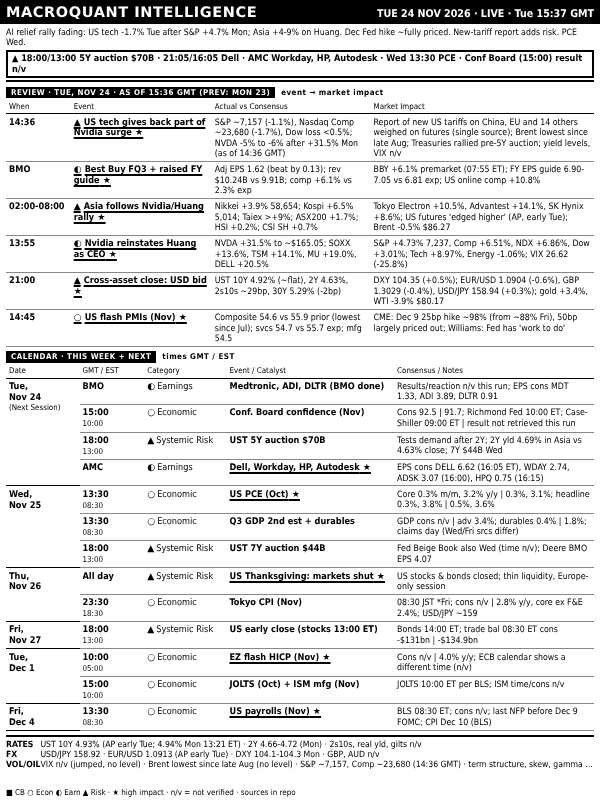
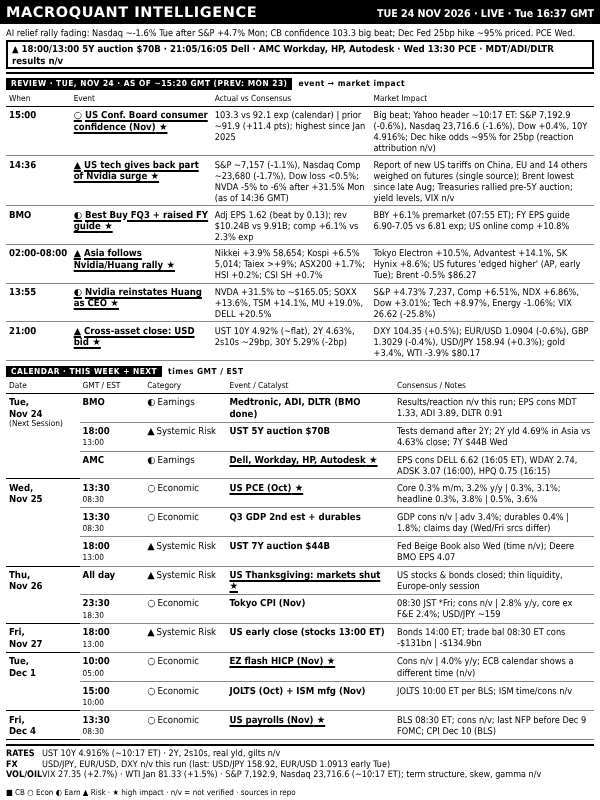
dashboard: TUE 24 NOV 2026 LIVE 16:40
Claude-Session: https://claude.ai/code/session_016SJqa5oHvQJZ3qpUeK4dBq

diff --git a/out/dashboard.html b/out/dashboard.html
@@ -38,12 +38,12 @@ table.bd{border-collapse:collapse;width:100%;table-layout:fixed;margin-top:1px}
 </style></head><body>
 <div id="root">
  <div class="hdr"><span class="t">MACROQUANT INTELLIGENCE</span>
-  <span class="r">TUE 24 NOV 2026 · LIVE · Tue 15:37 GMT</span></div>
- <div class="ban"><div class="rg">AI relief rally fading: US tech -1.7% Tue after S&amp;P +4.7% Mon; Asia +4-9% on Huang. Dec Fed hike ~fully priced. New-tariff report adds risk. PCE Wed.</div><div class="al">▲ 18:00/13:00 5Y auction $70B · 21:05/16:05 Dell · AMC Workday, HP, Autodesk · Wed 13:30 PCE · Conf Board (15:00) result n/v</div></div>
- <div class="sl"><span>REVIEW · TUE, NOV 24 · AS OF 15:36 GMT (PREV: MON 23)</span>event → market impact</div><table class="bd rv"><colgroup><col style="width:11%"><col style="width:24%"><col style="width:27%"><col></colgroup><tr><th>When</th><th>Event</th><th>Actual vs Consensus</th><th>Market Impact</th></tr><tr class="h"><td class="tm"><b>14:36</b></td><td class="ev"><i>▲</i>US tech gives back part of Nvidia surge</td><td class="ac">S&amp;P ~7,157 (-1.1%), Nasdaq Comp ~23,680 (-1.7%), Dow loss &lt;0.5%; NVDA -5% to -6% after +31.5% Mon (as of 14:36 GMT)</td><td class="nt">Report of new US tariffs on China, EU and 14 others weighed on futures (single source); Brent lowest since late Aug; Treasuries rallied pre-5Y auction; yield levels, VIX n/v</td></tr><tr class="h"><td class="tm"><b>BMO</b></td><td class="ev"><i>◐</i>Best Buy FQ3 + raised FY guide</td><td class="ac">Adj EPS 1.62 (beat by 0.13); rev $10.24B vs 9.91B; comp +6.1% vs 2.3% exp</td><td class="nt">BBY +6.1% premarket (07:55 ET); FY EPS guide 6.90-7.05 vs 6.81 exp; US online comp +10.8%</td></tr><tr class="h"><td class="tm"><b>02:00-08:00</b></td><td class="ev"><i>▲</i>Asia follows Nvidia/Huang rally</td><td class="ac">Nikkei +3.9% 58,654; Kospi +6.5% 5,014; Taiex &gt;+9%; ASX200 +1.7%; HSI +0.2%; CSI SH +0.7%</td><td class="nt">Tokyo Electron +10.5%, Advantest +14.1%, SK Hynix +8.6%; US futures 'edged higher' (AP, early Tue); Brent -0.5% $86.27</td></tr><tr class="h"><td class="tm"><b>13:55</b></td><td class="ev"><i>◐</i>Nvidia reinstates Huang as CEO</td><td class="ac">NVDA +31.5% to ~$165.05; SOXX +13.6%, TSM +14.1%, MU +19.0%, DELL +20.5%</td><td class="nt">S&amp;P +4.73% 7,237, Comp +6.51%, NDX +6.86%, Dow +3.01%; Tech +8.97%, Energy -1.06%; VIX 26.62 (-25.8%)</td></tr><tr class="h"><td class="tm"><b>21:00</b></td><td class="ev"><i>▲</i>Cross-asset close: USD bid</td><td class="ac">UST 10Y 4.92% (~flat), 2Y 4.63%, 2s10s ~29bp, 30Y 5.29% (-2bp)</td><td class="nt">DXY 104.35 (+0.5%); EUR/USD 1.0904 (-0.6%), GBP 1.3029 (-0.4%), USD/JPY 158.94 (+0.3%); gold +3.4%, WTI -3.9% $80.17</td></tr><tr class="h"><td class="tm"><b>14:45</b></td><td class="ev"><i>○</i>US flash PMIs (Nov)</td><td class="ac">Composite 54.6 vs 55.9 prior (lowest since Jul); svcs 54.7 vs 55.7 exp; mfg 54.5</td><td class="nt">CME: Dec 9 25bp hike ~98% (from ~88% Fri), 50bp largely priced out; Williams: Fed has 'work to do'</td></tr></table>
+  <span class="r">TUE 24 NOV 2026 · LIVE · Tue 16:37 GMT</span></div>
+ <div class="ban"><div class="rg">AI relief rally fading: Nasdaq ~-1.6% Tue after S&amp;P +4.7% Mon; CB confidence 103.3 big beat; Dec Fed 25bp hike ~95% priced. PCE Wed.</div><div class="al">▲ 18:00/13:00 5Y auction $70B · 21:05/16:05 Dell · AMC Workday, HP, Autodesk · Wed 13:30 PCE · MDT/ADI/DLTR results n/v</div></div>
+ <div class="sl"><span>REVIEW · TUE, NOV 24 · AS OF ~15:20 GMT (PREV: MON 23)</span>event → market impact</div><table class="bd rv"><colgroup><col style="width:11%"><col style="width:24%"><col style="width:27%"><col></colgroup><tr><th>When</th><th>Event</th><th>Actual vs Consensus</th><th>Market Impact</th></tr><tr class="h"><td class="tm"><b>15:00</b></td><td class="ev"><i>○</i>US Conf. Board consumer confidence (Nov)</td><td class="ac">103.3 vs 92.1 exp (calendar) | prior ~91.9 (+11.4 pts); highest since Jan 2025</td><td class="nt">Big beat; Yahoo header ~10:17 ET: S&amp;P 7,192.9 (-0.6%), Nasdaq 23,716.6 (-1.6%), Dow +0.4%, 10Y 4.916%; Dec hike odds ~95% for 25bp (reaction attribution n/v)</td></tr><tr class="h"><td class="tm"><b>14:36</b></td><td class="ev"><i>▲</i>US tech gives back part of Nvidia surge</td><td class="ac">S&amp;P ~7,157 (-1.1%), Nasdaq Comp ~23,680 (-1.7%), Dow loss &lt;0.5%; NVDA -5% to -6% after +31.5% Mon (as of 14:36 GMT)</td><td class="nt">Report of new US tariffs on China, EU and 14 others weighed on futures (single source); Brent lowest since late Aug; Treasuries rallied pre-5Y auction; yield levels, VIX n/v</td></tr><tr class="h"><td class="tm"><b>BMO</b></td><td class="ev"><i>◐</i>Best Buy FQ3 + raised FY guide</td><td class="ac">Adj EPS 1.62 (beat by 0.13); rev $10.24B vs 9.91B; comp +6.1% vs 2.3% exp</td><td class="nt">BBY +6.1% premarket (07:55 ET); FY EPS guide 6.90-7.05 vs 6.81 exp; US online comp +10.8%</td></tr><tr class="h"><td class="tm"><b>02:00-08:00</b></td><td class="ev"><i>▲</i>Asia follows Nvidia/Huang rally</td><td class="ac">Nikkei +3.9% 58,654; Kospi +6.5% 5,014; Taiex &gt;+9%; ASX200 +1.7%; HSI +0.2%; CSI SH +0.7%</td><td class="nt">Tokyo Electron +10.5%, Advantest +14.1%, SK Hynix +8.6%; US futures 'edged higher' (AP, early Tue); Brent -0.5% $86.27</td></tr><tr class="h"><td class="tm"><b>13:55</b></td><td class="ev"><i>◐</i>Nvidia reinstates Huang as CEO</td><td class="ac">NVDA +31.5% to ~$165.05; SOXX +13.6%, TSM +14.1%, MU +19.0%, DELL +20.5%</td><td class="nt">S&amp;P +4.73% 7,237, Comp +6.51%, NDX +6.86%, Dow +3.01%; Tech +8.97%, Energy -1.06%; VIX 26.62 (-25.8%)</td></tr><tr class="h"><td class="tm"><b>21:00</b></td><td class="ev"><i>▲</i>Cross-asset close: USD bid</td><td class="ac">UST 10Y 4.92% (~flat), 2Y 4.63%, 2s10s ~29bp, 30Y 5.29% (-2bp)</td><td class="nt">DXY 104.35 (+0.5%); EUR/USD 1.0904 (-0.6%), GBP 1.3029 (-0.4%), USD/JPY 158.94 (+0.3%); gold +3.4%, WTI -3.9% $80.17</td></tr></table>
  <div class="sl"><span>CALENDAR · THIS WEEK + NEXT</span>times GMT / EST</div>
- <table class="bd"><colgroup><col style="width:12.5%"><col style="width:11%"><col style="width:14%"><col style="width:28.5%"><col></colgroup><tr><th>Date</th><th>GMT / EST</th><th>Category</th><th>Event / Catalyst</th><th>Consensus / Notes</th></tr><tr class="g0"><td class="dt" rowspan="4">Tue,<br>Nov&nbsp;24<span class="tg">(Next Session)</span></td><td class="tm"><b>BMO</b></td><td class="ct"><i>◐</i>Earnings</td><td class="ev">Medtronic, ADI, DLTR (BMO done)</td><td class="nt">Results/reaction n/v this run; EPS cons MDT 1.33, ADI 3.89, DLTR 0.91</td></tr><tr class=""><td class="tm"><b>15:00</b><span>10:00</span></td><td class="ct"><i>○</i>Economic</td><td class="ev">Conf. Board confidence (Nov)</td><td class="nt">Cons 92.5 | 91.7; Richmond Fed 10:00 ET; Case-Shiller 09:00 ET | result not retrieved this run</td></tr><tr class=""><td class="tm"><b>18:00</b><span>13:00</span></td><td class="ct"><i>▲</i>Systemic Risk</td><td class="ev">UST 5Y auction $70B</td><td class="nt">Tests demand after 2Y; 2Y yld 4.69% in Asia vs 4.63% close; 7Y $44B Wed</td></tr><tr class="h"><td class="tm"><b>AMC</b></td><td class="ct"><i>◐</i>Earnings</td><td class="ev">Dell, Workday, HP, Autodesk</td><td class="nt">EPS cons DELL 6.62 (16:05 ET), WDAY 2.74, ADSK 3.07 (16:00), HPQ 0.75 (16:15)</td></tr><tr class="g0 h"><td class="dt" rowspan="3">Wed,<br>Nov&nbsp;25</td><td class="tm"><b>13:30</b><span>08:30</span></td><td class="ct"><i>○</i>Economic</td><td class="ev">US PCE (Oct)</td><td class="nt">Core 0.3% m/m, 3.2% y/y | 0.3%, 3.1%; headline 0.3%, 3.8% | 0.5%, 3.6%</td></tr><tr class=""><td class="tm"><b>13:30</b><span>08:30</span></td><td class="ct"><i>○</i>Economic</td><td class="ev">Q3 GDP 2nd est + durables</td><td class="nt">GDP cons n/v | adv 3.4%; durables 0.4% | 1.8%; claims day (Wed/Fri srcs differ)</td></tr><tr class=""><td class="tm"><b>18:00</b><span>13:00</span></td><td class="ct"><i>▲</i>Systemic Risk</td><td class="ev">UST 7Y auction $44B</td><td class="nt">Fed Beige Book also Wed (time n/v); Deere BMO EPS 4.07</td></tr><tr class="g0 h"><td class="dt" rowspan="2">Thu,<br>Nov&nbsp;26</td><td class="tm"><b>All day</b></td><td class="ct"><i>▲</i>Systemic Risk</td><td class="ev">US Thanksgiving: markets shut</td><td class="nt">US stocks &amp; bonds closed; thin liquidity, Europe-only session</td></tr><tr class=""><td class="tm"><b>23:30</b><span>18:30</span></td><td class="ct"><i>○</i>Economic</td><td class="ev">Tokyo CPI (Nov)</td><td class="nt">08:30 JST *Fri; cons n/v | 2.8% y/y, core ex F&amp;E 2.4%; USD/JPY ~159</td></tr><tr class="g0"><td class="dt" rowspan="1">Fri,<br>Nov&nbsp;27</td><td class="tm"><b>18:00</b><span>13:00</span></td><td class="ct"><i>▲</i>Systemic Risk</td><td class="ev">US early close (stocks 13:00 ET)</td><td class="nt">Bonds 14:00 ET; trade bal 08:30 ET cons -$131bn | -$134.9bn</td></tr><tr class="g0 h"><td class="dt" rowspan="2">Tue,<br>Dec&nbsp;1</td><td class="tm"><b>10:00</b><span>05:00</span></td><td class="ct"><i>○</i>Economic</td><td class="ev">EZ flash HICP (Nov)</td><td class="nt">Cons n/v | 4.0% y/y; ECB calendar shows a different time (n/v)</td></tr><tr class=""><td class="tm"><b>15:00</b><span>10:00</span></td><td class="ct"><i>○</i>Economic</td><td class="ev">JOLTS (Oct) + ISM mfg (Nov)</td><td class="nt">JOLTS 10:00 ET per BLS; ISM time/cons n/v</td></tr><tr class="g0 h"><td class="dt" rowspan="1">Fri,<br>Dec&nbsp;4</td><td class="tm"><b>13:30</b><span>08:30</span></td><td class="ct"><i>○</i>Economic</td><td class="ev">US payrolls (Nov)</td><td class="nt">BLS 08:30 ET; cons n/v; last NFP before Dec 9 FOMC; CPI Dec 10 (BLS)</td></tr></table>
- <div class="lv"><div><b>RATES</b>UST 10Y 4.93% (AP early Tue; 4.94% Mon 13:21 ET) · 2Y 4.66-4.72 (Mon) · 2s10s, real yld, gilts n/v</div><div><b>FX</b>USD/JPY 158.92 · EUR/USD 1.0913 (AP early Tue) · DXY 104.1-104.3 Mon · GBP, AUD n/v</div><div><b>VOL/OIL</b>VIX n/v (jumped, no level) · Brent lowest since late Aug (no level) · S&amp;P ~7,157, Comp ~23,680 (14:36 GMT) · term structure, skew, gamma n/v</div></div>
+ <table class="bd"><colgroup><col style="width:12.5%"><col style="width:11%"><col style="width:14%"><col style="width:28.5%"><col></colgroup><tr><th>Date</th><th>GMT / EST</th><th>Category</th><th>Event / Catalyst</th><th>Consensus / Notes</th></tr><tr class="g0"><td class="dt" rowspan="3">Tue,<br>Nov&nbsp;24<span class="tg">(Next Session)</span></td><td class="tm"><b>BMO</b></td><td class="ct"><i>◐</i>Earnings</td><td class="ev">Medtronic, ADI, DLTR (BMO done)</td><td class="nt">Results/reaction n/v this run; EPS cons MDT 1.33, ADI 3.89, DLTR 0.91</td></tr><tr class=""><td class="tm"><b>18:00</b><span>13:00</span></td><td class="ct"><i>▲</i>Systemic Risk</td><td class="ev">UST 5Y auction $70B</td><td class="nt">Tests demand after 2Y; 2Y yld 4.69% in Asia vs 4.63% close; 7Y $44B Wed</td></tr><tr class="h"><td class="tm"><b>AMC</b></td><td class="ct"><i>◐</i>Earnings</td><td class="ev">Dell, Workday, HP, Autodesk</td><td class="nt">EPS cons DELL 6.62 (16:05 ET), WDAY 2.74, ADSK 3.07 (16:00), HPQ 0.75 (16:15)</td></tr><tr class="g0 h"><td class="dt" rowspan="3">Wed,<br>Nov&nbsp;25</td><td class="tm"><b>13:30</b><span>08:30</span></td><td class="ct"><i>○</i>Economic</td><td class="ev">US PCE (Oct)</td><td class="nt">Core 0.3% m/m, 3.2% y/y | 0.3%, 3.1%; headline 0.3%, 3.8% | 0.5%, 3.6%</td></tr><tr class=""><td class="tm"><b>13:30</b><span>08:30</span></td><td class="ct"><i>○</i>Economic</td><td class="ev">Q3 GDP 2nd est + durables</td><td class="nt">GDP cons n/v | adv 3.4%; durables 0.4% | 1.8%; claims day (Wed/Fri srcs differ)</td></tr><tr class=""><td class="tm"><b>18:00</b><span>13:00</span></td><td class="ct"><i>▲</i>Systemic Risk</td><td class="ev">UST 7Y auction $44B</td><td class="nt">Fed Beige Book also Wed (time n/v); Deere BMO EPS 4.07</td></tr><tr class="g0 h"><td class="dt" rowspan="2">Thu,<br>Nov&nbsp;26</td><td class="tm"><b>All day</b></td><td class="ct"><i>▲</i>Systemic Risk</td><td class="ev">US Thanksgiving: markets shut</td><td class="nt">US stocks &amp; bonds closed; thin liquidity, Europe-only session</td></tr><tr class=""><td class="tm"><b>23:30</b><span>18:30</span></td><td class="ct"><i>○</i>Economic</td><td class="ev">Tokyo CPI (Nov)</td><td class="nt">08:30 JST *Fri; cons n/v | 2.8% y/y, core ex F&amp;E 2.4%; USD/JPY ~159</td></tr><tr class="g0"><td class="dt" rowspan="1">Fri,<br>Nov&nbsp;27</td><td class="tm"><b>18:00</b><span>13:00</span></td><td class="ct"><i>▲</i>Systemic Risk</td><td class="ev">US early close (stocks 13:00 ET)</td><td class="nt">Bonds 14:00 ET; trade bal 08:30 ET cons -$131bn | -$134.9bn</td></tr><tr class="g0 h"><td class="dt" rowspan="2">Tue,<br>Dec&nbsp;1</td><td class="tm"><b>10:00</b><span>05:00</span></td><td class="ct"><i>○</i>Economic</td><td class="ev">EZ flash HICP (Nov)</td><td class="nt">Cons n/v | 4.0% y/y; ECB calendar shows a different time (n/v)</td></tr><tr class=""><td class="tm"><b>15:00</b><span>10:00</span></td><td class="ct"><i>○</i>Economic</td><td class="ev">JOLTS (Oct) + ISM mfg (Nov)</td><td class="nt">JOLTS 10:00 ET per BLS; ISM time/cons n/v</td></tr><tr class="g0 h"><td class="dt" rowspan="1">Fri,<br>Dec&nbsp;4</td><td class="tm"><b>13:30</b><span>08:30</span></td><td class="ct"><i>○</i>Economic</td><td class="ev">US payrolls (Nov)</td><td class="nt">BLS 08:30 ET; cons n/v; last NFP before Dec 9 FOMC; CPI Dec 10 (BLS)</td></tr></table>
+ <div class="lv"><div><b>RATES</b>UST 10Y 4.916% (~10:17 ET) · 2Y, 2s10s, real yld, gilts n/v</div><div><b>FX</b>USD/JPY, EUR/USD, DXY n/v this run (last: USD/JPY 158.92, EUR/USD 1.0913 early Tue)</div><div><b>VOL/OIL</b>VIX 27.35 (+2.7%) · WTI Jan 81.33 (+1.5%) · S&amp;P 7,192.9, Nasdaq 23,716.6 (~10:17 ET); term structure, skew, gamma n/v</div></div>
 </div>
 <div class="foot">■ CB ○ Econ ◐ Earn ▲ Risk · ★ high impact · n/v = not verified · sources in repo</div>
 </body></html>
